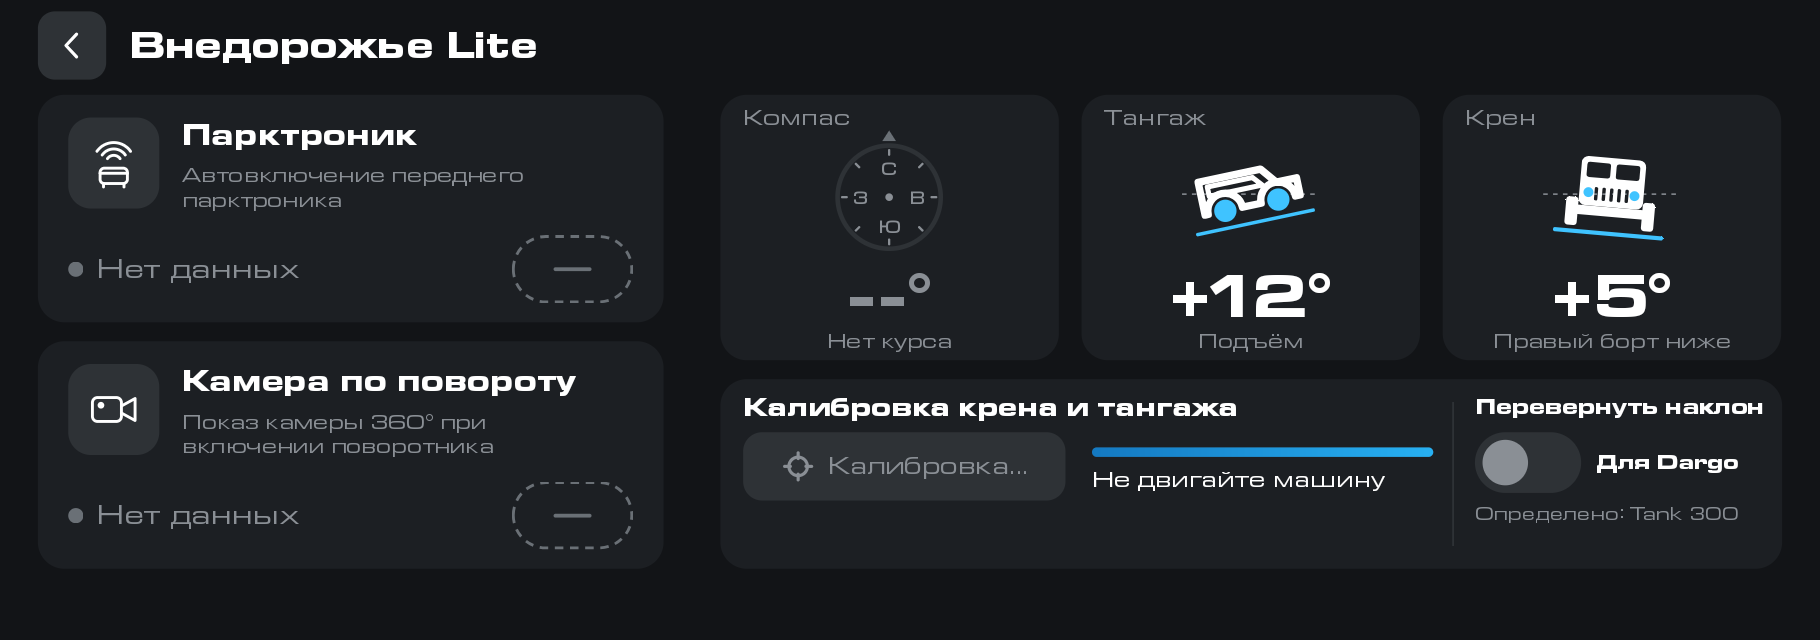
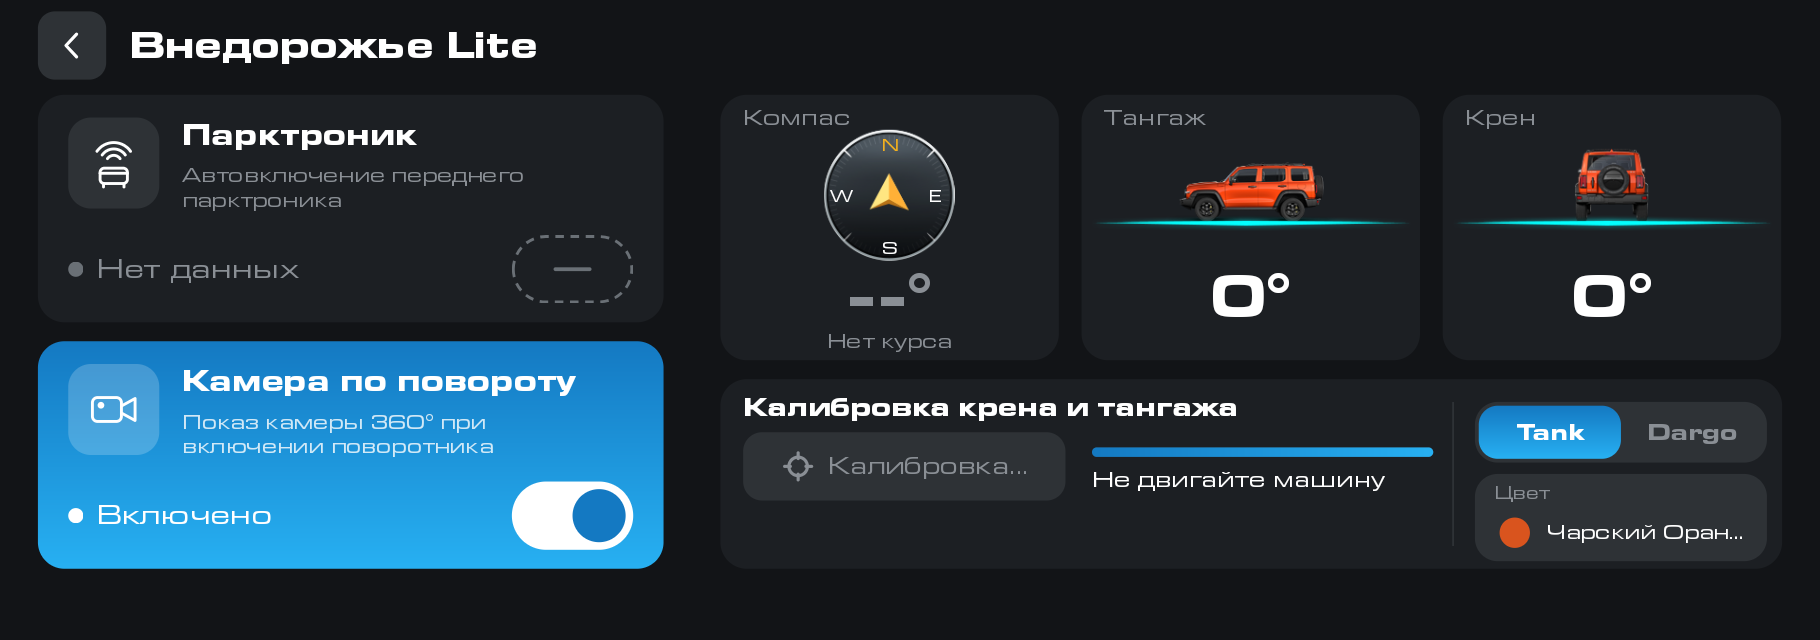
Витрина: Внедорожье 0.1.4 и Внедорожье Lite 0.1.2

diff --git a/offroad-lite/README.md b/offroad-lite/README.md
@@ -10,12 +10,12 @@
 
 ![Окно «Внедорожье Lite»: кнопки, компас, тангаж и крен](main.png)
 
-<sub>Снимки с эмулятора. Тангаж и крен подставные. Курса на эмуляторе нет, поэтому компас показывает «--°», настоящий курс бывает только на ГУ. Службы камеры на эмуляторе нет, поэтому кнопки показывают «Нет данных».</sub>
+<sub>Снимки с эмулятора. Тангаж и крен подставные. Курса на эмуляторе нет, поэтому компас показывает «--°», настоящий курс бывает только на ГУ. Службы камеры Aptiv на эмуляторе нет, поэтому состояние кнопок не настоящее.</sub>
 
 - «Парктроник» включает и выключает автовключение переднего парктроника.
 - «Камера по повороту» включает и выключает показ камеры 360° при включении поворотника. Та же настройка включает камеру и при простом повороте руля.
-- «Компас» показывает курс по GPS и сторону света. Магнитного компаса в машине нет, курс берётся из GPS, поэтому стоя на месте он неизвестен и компас показывает «--°». Без сигнала GPS компас тоже бесполезен.
-- «Тангаж» показывает подъём или спуск, «Крен» наклон вбок. Оба считаются по акселерометру и нуждаются в калибровке.
+- «Компас» показывает курс по GPS и сторону света. Магнитного компаса в машине нет, курс берётся из GPS, поэтому стоя на месте он неизвестен и компас показывает «--°». Без сигнала GPS компас тоже бесполезен. Курс показывается при скорости не ниже 1 м/с.
+- «Тангаж» показывает подъём или спуск, «Крен» наклон вбок. Оба считаются по акселерометру и нуждаются в калибровке. Картинки машины и компас такие же, как в виджете [«Внедорожья»](../offroad/README.md).
 
 Кнопки переключают те же настройки, что раздел «Автомобиль → Парковка» штатной прошивки.
 
@@ -23,13 +23,13 @@
 
 Откалибровать тангаж и крен нужно один раз, на ровной площадке, при стоящей машине: нажмите «Откалибровать». Приложение усредняет показания за две секунды. Если машина двигалась, калибровку оно не примет и напишет «Машина не стояла». Нулём станет тот наклон, который был при калибровке. Без калибровки тангаж и крен показываются как «--°».
 
-Направление наклона зависит от машины. На Tank 300 знак прямой, на Dargo обратный. Если на вашей машине подъём показывается как спуск, включите в карточке калибровки выключатель «Перевернуть наклон». Начальное значение ставит модель машины, ручной выбор запоминается.
+Направление наклона и силуэт зависят от машины. На Tank 300 знак прямой, на Dargo обратный. В карточке калибровки стоит переключатель «Tank» и «Dargo»: начальное значение ставит модель машины, ручной выбор запоминается. Под ним поле «Цвет» открывает цвета выбранной модели (у Tank пять, у Dargo девять), «как в прошивке» возвращается при смене модели.
 
-| Нет курса, калибровки нет | Идёт калибровка |
+| Идёт калибровка | Модель Dargo |
 |---|---|
-| ![Нет курса, калибровки нет](nocourse.png) | ![Идёт калибровка](calibrate.png) |
+| ![Идёт калибровка](calibrate.png) | ![Модель Dargo](dargo.png) |
 
-<sub>На левом снимке тангаж и крен показывают числа: до своей калибровки приложение берёт калибровку Premium, на эмуляторе она нулевая. Без неё вместо чисел стоит «--°».</sub>
+<sub>На правом снимке выбрана модель Dargo: силуэты другие, цвет «как в прошивке».</sub>
 
 Датчики включены, только пока окно открыто. Своей службы у приложения нет, в фоне оно ничего не читает. Тема только тёмная.
 
@@ -41,17 +41,29 @@
 
 ## Совместимость
 
-Версия 0.1 проверена на Tank 300 City с прошивкой GWM-club и на Haval Dargo со штатной прошивкой: компас, тангаж, крен, калибровка и обе кнопки работают. Выключатель «Перевернуть наклон» и подгонку по ширине окна GWM-club проверяли на эмуляторе, на машинах ещё нет. Tank 300 Part Time не проверялся. На плитке крена нарисован силуэт Tank 300, на Dargo он будет выглядеть иначе.
+Версия 0.1 проверена на Tank 300 City с прошивкой GWM-club и на Haval Dargo со штатной прошивкой: компас, тангаж, крен, калибровка и обе кнопки работают. Версия 0.1.2 проверена на Tank 300 City с прошивкой GWM-club. Новые картинки и выбор модели на Dargo не проверялись. Tank 300 Part Time не проверялся.
 
 ## Версии
 
 <!-- versions -->
-Актуальная версия — **0.1.1** от 30.10.2026: [offroad-lite-0.1.1.apk](https://github.com/theKomix/gwm-apps/releases/download/offroad-lite-v0.1.1/offroad-lite-0.1.1.apk), [описание релиза](https://github.com/theKomix/gwm-apps/releases/tag/offroad-lite-v0.1.1).
+Актуальная версия — **0.1.2** от 05.11.2026: [offroad-lite-0.1.2.apk](https://github.com/theKomix/gwm-apps/releases/download/offroad-lite-v0.1.2/offroad-lite-0.1.2.apk), [описание релиза](https://github.com/theKomix/gwm-apps/releases/tag/offroad-lite-v0.1.2).
+
+- Компас и картинки машины такие же, как в виджете «Внедорожья» 2×1: компас с неподвижной стрелкой и силуэты. Для Tank силуэт поворачивается вокруг оси, для Dargo три картинки наклона. Знаков «+» и «−» и подписей «Подъём» и «Правый борт ниже» больше нет, числа без знака.
+- Приложение учитывает модель машины. В карточке калибровки вместо выключателя «Перевернуть наклон» стоит переключатель «Tank» и «Dargo». Начальное значение ставит модель машины, выбор запоминается. У Dargo знак датчика обратный, у Tank прямой.
+- Под переключателем есть поле «Цвет». По нажатию открывается окно с цветами выбранной модели: у Tank пять, у Dargo девять. Смена модели возвращает цвет «как в прошивке».
+- Курс считается и по двум последним точкам, если приёмник отдаёт нулевой курс. Курс показывается только при скорости не ниже 1 м/с.
+
+Предыдущие версии:
+
+<details>
+<summary>0.1.1 от 30.10.2026</summary>
 
 - Направление тангажа и крена зависит от машины. На Tank 300 знак прямой, на Dargo обратный, а в 0.1 он был обратным у всех. В карточке калибровки появился выключатель «Перевернуть наклон» («Для Dargo»). Начальное значение ставит модель машины, ручной выбор запоминается.
 - Окно приложения на GWM-club уже экрана: слева боковая рейка, сверху строка состояния, и правый край обрезался. Теперь экран уменьшается по ширине окна.
 
-Предыдущие версии:
+[offroad-lite-0.1.1.apk](https://github.com/theKomix/gwm-apps/releases/download/offroad-lite-v0.1.1/offroad-lite-0.1.1.apk), [описание релиза](https://github.com/theKomix/gwm-apps/releases/tag/offroad-lite-v0.1.1).
+
+</details>
 
 <details>
 <summary>0.1 от 29.10.2026</summary>
@@ -74,4 +86,4 @@
 
 Неофициальный проект, не связан с Great Wall Motor и Aptiv. Названия и марки принадлежат их владельцам.
 
-Приложение распространяется «как есть». Оно переключает те же настройки парктроника и камеры, что экран «Автомобиль → Парковка» штатной прошивки.
+Приложение распространяется «как есть». Оно переключает те же настройки парктроника и камеры, что экран «Автомобиль → Парковка» штатной прошивки. Картинки внутри приложения (компас и силуэты) принадлежат GWM, версия только для личной установки.

diff --git a/offroad/README.md b/offroad/README.md
@@ -12,7 +12,8 @@
 
 - «Парктроник» включает и выключает автовключение переднего парктроника.
 - «Камера» включает и выключает показ камеры 360° при включении поворотника. Та же настройка включает камеру и при простом повороте руля.
-- Остальное как в штатном виджете: давление и температура шин, режим движения, схема осей и блокировок, давление воздуха. Низкое давление подсвечивает красным все четыре колеса, включённая задняя блокировка горит зелёным.
+- Остальное как в штатном виджете: давление и температура шин, режим движения, схема осей и блокировок, давление воздуха. Проблемное колесо подсвечивается красным, включённая задняя блокировка горит зелёным.
+- В размере 2×1 давление и температура шины стоят у каждого колеса схемы осей. Давление без единицы, температура с единицей, числа идут в единицах приборки (кПа, psi или бар, °C или °F). Колесо, которое машина считает проблемным, красное на схеме, и его цифры красные.
 - Картинка машины выбирается по конфигурации ГУ. Цвет кузова меняется в настройках приложения.
 - Курс, тангаж и крен виджет получает от приложения Premium, которое есть в прошивке GWM-club. Без него эти показания выводит [«Внедорожье Lite»](../offroad-lite/README.md).
 
@@ -28,16 +29,28 @@
 2. Поставьте его на ГУ по [инструкции для GWM-club](../INSTALL-CLUB.md).
 3. Добавьте виджет «Внедорожье» на рабочий стол. Если его нет в списке, перезагрузите ГУ. Настройки открываются значком «Внедорожье» на экране приложений.
 
-Связь с машиной устанавливается через 10–15 секунд после запуска службы, до этого виджет показывает нули.
+Связь с машиной устанавливается через 10–15 секунд после запуска службы, до этого виджет приглушён, а углы, высота и давление стоят с «--».
 
 ## Совместимость
 
-Проверено на Tank 300 City с прошивкой GWM-club в режиме «ЭКО», самый большой виджет: связь с машиной, шины, режим движения, подсветка колёс, задняя блокировка, кнопки. Режим «Стандарт» смотрели на другом Tank 300 по фото: данные и настройки в порядке. На других комплектациях виджет может выглядеть иначе. Tank 300 Part Time и Haval Dargo не проверялись, передняя блокировка тоже. Если на вашей машине виджет работает криво, пришлите автору фото штатного виджета и «Внедорожья»: держать их на рабочем столе можно одновременно.
+Проверено на Tank 300 City с прошивкой GWM-club: связь с машиной, шины и их подписи в размере 2×1, режим движения, подсветка колёс, задняя блокировка, компас и углы, кнопки. Режим «Стандарт» смотрели на другом Tank 300 по фото: данные и настройки в порядке. На других комплектациях виджет может выглядеть иначе. Tank 300 Part Time и Haval Dargo не проверялись, передняя блокировка тоже. Если на вашей машине виджет работает криво, пришлите автору фото штатного виджета и «Внедорожья»: держать их на рабочем столе можно одновременно.
 
 ## Версии
 
 <!-- versions -->
-Актуальная версия — **0.1.3** от 31.10.2026: [offroad-0.1.3.apk](https://github.com/theKomix/gwm-apps/releases/download/offroad-v0.1.3/offroad-0.1.3.apk), [описание релиза](https://github.com/theKomix/gwm-apps/releases/tag/offroad-v0.1.3).
+Актуальная версия — **0.1.4** от 05.11.2026: [offroad-0.1.4.apk](https://github.com/theKomix/gwm-apps/releases/download/offroad-v0.1.4/offroad-0.1.4.apk), [описание релиза](https://github.com/theKomix/gwm-apps/releases/tag/offroad-v0.1.4).
+
+- В виджете 2×1 у каждого колеса схемы осей стоят давление и температура шины. Давление без единицы, температура с единицей. Числа идут в единицах приборки: кПа, psi или бар, °C или °F.
+- Колесо, которое машина считает проблемным, красное на схеме осей, и его цифры красные. Без датчиков давления подписи скрыты.
+- В 2×1 машины с тангажом и креном стоят дальше от центра, а компас такой же, как в большом виджете. Высота и давление воздуха стоят под ним столбиком.
+- Индикаторы (компас, тангаж и крен, высота, давление воздуха) показываются всегда, без данных стоит «--». В настройках два пункта: «Показывать» и «Скрывать». Прежний пункт «Авто» читается как «Показывать».
+- Пока машина не ответила, виджет не пустой: машины, колёса и компас рисуются сразу, а запомненные значения приглушены. Набор индикаторов «по умолчанию» больше не мелькает.
+- Кадр рисуется, только когда изменились данные: виджет обновляется сразу и не тратит ресурсы ГУ на одинаковые кадры.
+
+Предыдущие версии:
+
+<details>
+<summary>0.1.3 от 31.10.2026</summary>
 
 - Режим «Снег» рисовался с подсветкой от предыдущего режима. Теперь у каждого режима своя подсветка и название.
 - Конфигурация машины запоминается, при старте виджет не мелькает набором индикаторов «по умолчанию».
@@ -45,7 +58,9 @@
 - Превью в выборе виджетов собрано из частей, прижатых к краям: в больших клетках они расходятся, в маленьких собираются.
 - Из 0.1.2: колёса в малом виджете 1×1 поворачиваются за рулём, компас жёлтый по теме ГУ, добавлены права на чтение данных машины.
 
-Предыдущие версии:
+[offroad-0.1.3.apk](https://github.com/theKomix/gwm-apps/releases/download/offroad-v0.1.3/offroad-0.1.3.apk), [описание релиза](https://github.com/theKomix/gwm-apps/releases/tag/offroad-v0.1.3).
+
+</details>
 
 <details>
 <summary>0.1.2 от 29.10.2026</summary>

diff --git a/README.md b/README.md
@@ -11,8 +11,8 @@
 | [TBOX: только Wi-Fi](tboxrules/README.md) | <!-- v:tboxrules --> [0.1.0](https://github.com/theKomix/gwm-apps/releases/tag/tboxrules-v0.1.0) <!-- /v --> | Интернет для приложений на ГУ — только через Wi-Fi, трафик сим-карты TBOX не тратится |
 | [GWM Comfort](comfort/README.md) | <!-- v:comfort --> [0.7.2](https://github.com/theKomix/gwm-apps/releases/tag/comfort-v0.7.2) <!-- /v --> | Сценарии комфорта: по запуску двигателя, дню и ночи, включению ГУ, пассажиру включает подогрев, вентиляцию, обогрев, меняет яркость и источник звука |
 | [GWM Install](gwm-install/README.md) | <!-- v:gwm-install --> [0.2.1](https://github.com/theKomix/gwm-apps/releases/tag/gwm-install-v0.2.1) <!-- /v --> | Ставит APK на ГУ с телефона по Wi-Fi, в том числе на штатных прошивках: кабель нужен один раз, для самого менеджера |
-| [Внедорожье](offroad/README.md) | <!-- v:offroad --> [0.1.3](https://github.com/theKomix/gwm-apps/releases/tag/offroad-v0.1.3) <!-- /v --> | Виджет для прошивки GWM-club: кнопки автовключения парктроника и камеры по повороту, данные шин и режимы движения |
-| [Внедорожье Lite](offroad-lite/README.md) | <!-- v:offroad-lite --> [0.1.1](https://github.com/theKomix/gwm-apps/releases/tag/offroad-lite-v0.1.1) <!-- /v --> | Те же две кнопки, компас, тангаж и крен в отдельном окне, для штатной прошивки |
+| [Внедорожье](offroad/README.md) | <!-- v:offroad --> [0.1.4](https://github.com/theKomix/gwm-apps/releases/tag/offroad-v0.1.4) <!-- /v --> | Виджет для прошивки GWM-club: кнопки автовключения парктроника и камеры по повороту, данные шин и режимы движения |
+| [Внедорожье Lite](offroad-lite/README.md) | <!-- v:offroad-lite --> [0.1.2](https://github.com/theKomix/gwm-apps/releases/tag/offroad-lite-v0.1.2) <!-- /v --> | Те же две кнопки, компас, тангаж и крен в отдельном окне, для штатной прошивки |
 
 ## Общее для всех
 
